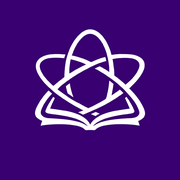
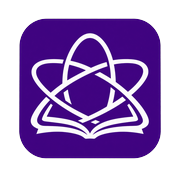
feat(site): 更换圆角Logo并重建相关图片
- 删除旧 logo.png/logo-sm.png，新增圆角版 logo-kexie.png 及 logo-kexie-sm.png、logo-nnu.jpg（南师大）、logo-dianzi.jpg（电自院）。
- 新增 scripts/make-og-cover.py 重建 og:image 分享图（新版圆角 Logo + 深蓝渐变 + 站名/标语）。
- 重建 favicon.png / apple-touch-icon.png（透明底）与 og-cover.png。

diff --git a/scripts/make-og-cover.py b/scripts/make-og-cover.py
@@ -1,0 +1,83 @@
+"""重建 og:image 分享配图（1200x630）：深蓝渐变背景 + 新版圆角 Logo + 站名/标语/英文。
+
+用法：
+  python scripts/make-og-cover.py
+
+说明：
+  - 左侧放置 assets/images/logo-kexie.png（新版圆角 logo）。
+  - 右侧依次为主标题、标语、英文。
+  - 输出 assets/images/og-cover.png。
+
+依赖：pip install pillow
+"""
+
+from pathlib import Path
+
+from PIL import Image, ImageDraw, ImageFont
+
+REPO = Path(__file__).resolve().parent.parent
+LOGO = REPO / "assets" / "images" / "logo-kexie.png"
+OUT = REPO / "assets" / "images" / "og-cover.png"
+
+W, H = 1200, 630
+FONT_REG = r"C:\Windows\Fonts\msyh.ttc"
+FONT_BOLD = r"C:\Windows\Fonts\msyhbd.ttc"
+
+
+def lerp(a, b, t):
+    return (a[0] + (b[0] - a[0]) * t, a[1] + (b[1] - a[1]) * t, a[2] + (b[2] - a[2]) * t)
+
+
+def main():
+    # 深蓝渐变背景（左上亮、右下深）
+    img = Image.new("RGB", (W, H), (15, 26, 51))
+    d = ImageDraw.Draw(img)
+    top_left = (26, 42, 82)
+    bottom_right = (10, 20, 42)
+    for y in range(H):
+        c = lerp(top_left, bottom_right, y / H)
+        row_color = (int(c[0]), int(c[1]), int(c[2]))
+        d.line([(0, y), (W, y)], fill=row_color)
+
+    # 弧形高光（左上椭圆）
+    overlay = Image.new("RGBA", (W, H), (0, 0, 0, 0))
+    od = ImageDraw.Draw(overlay)
+    od.ellipse([-300, -250, 900, 480], fill=(90, 130, 200, 40))
+    img = Image.alpha_composite(img.convert("RGBA"), overlay).convert("RGB")
+    d = ImageDraw.Draw(img)
+
+    # 左侧 Logo（新版圆角），保持比例
+    logo = Image.open(LOGO).convert("RGBA")
+    logo_h = 340
+    ratio = logo_h / logo.height
+    logo = logo.resize((int(logo.width * ratio), logo_h), Image.LANCZOS)
+    lx = 90
+    ly = (H - logo_h) // 2
+    img.paste(logo, (lx, ly), logo)
+
+    # 右侧文字
+    title = ["科技创新与", "智能创造协会"]
+    slogan = "让好奇心，落地成创造。"
+    eng = "SCIENCE · TECHNOLOGY · COMMUNITY"
+
+    b1 = ImageFont.truetype(FONT_BOLD, 74)
+    b2 = ImageFont.truetype(FONT_BOLD, 74)
+    f_slogan = ImageFont.truetype(FONT_REG, 36)
+    f_eng = ImageFont.truetype(FONT_REG, 26)
+
+    tx = logo.width + lx + 70
+    ty = 150
+    for line in title:
+        d.text((tx, ty), line, font=b1, fill=(255, 255, 255))
+        ty += 92
+    d.text((tx, ty + 50), slogan, font=f_slogan, fill=(110, 220, 230))
+    d.text((tx, ty + 108), eng, font=f_eng, fill=(150, 160, 175))
+
+    img.save(OUT, "PNG", optimize=True)
+    print(f"已生成: {OUT} ({W}x{H})")
+    return 0
+
+
+if __name__ == "__main__":
+    import sys
+    sys.exit(main())
